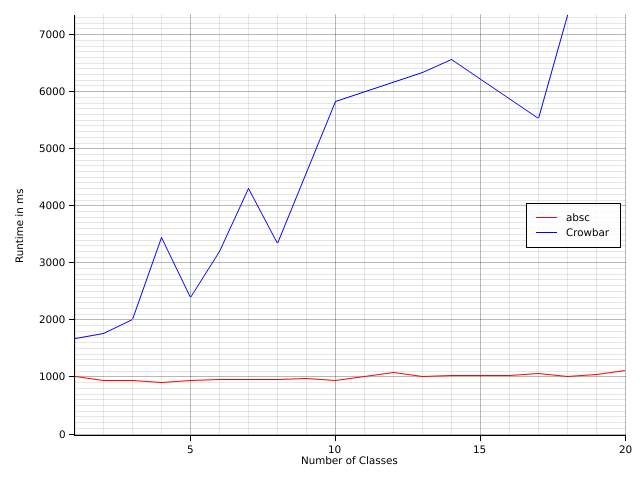
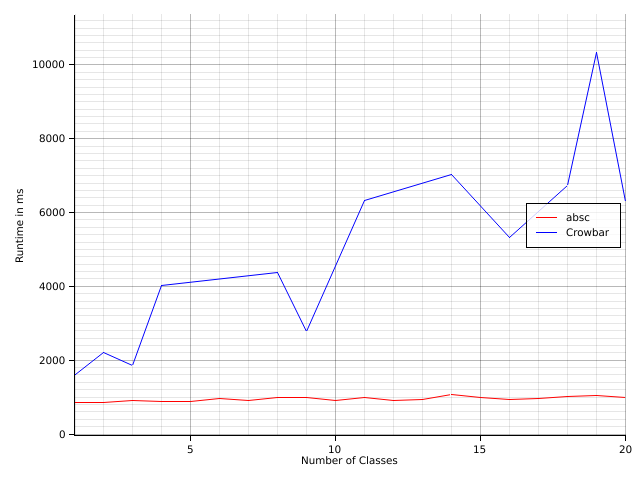
nullable benchmark

Changed region(s): [[0.0625, 0.0312, 0.9688, 0.9062]]

diff --git a/crates/benchmark/src/main.rs b/crates/benchmark/src/main.rs
@@ -13,6 +13,7 @@ use std::{
 
 mod plot;
 
+#[derive(Clone)]
 pub struct Run {
     pub duration: Duration,
     pub id: u32,
@@ -37,11 +38,15 @@ impl Run {
 
 pub struct BenchmarkResult {
     pub runs: Vec<Run>,
+    is_sorted: bool,
 }
 
 impl BenchmarkResult {
     fn new() -> Self {
-        Self { runs: Vec::new() }
+        Self {
+            runs: Vec::new(),
+            is_sorted: false,
+        }
     }
 
     fn size(&self) -> usize {
@@ -63,6 +68,7 @@ impl BenchmarkResult {
     }
 
     fn push(&mut self, r: Run) {
+        self.is_sorted = false;
         self.runs.push(r)
     }
 
@@ -70,12 +76,37 @@ impl BenchmarkResult {
         self.runs.iter().map(|r| r.duration).max()
     }
 
+    fn min_time(&self) -> Option<Duration> {
+        self.runs.iter().map(|r| r.duration).min()
+    }
+
     fn max_num(&self) -> Option<u32> {
         self.runs.iter().map(|r| r.id).max()
     }
 
+    fn sort(&mut self) {
+        if !self.is_sorted {
+            self.runs.sort_by(|r1, r2| r1.cmp_num(r2));
+            self.is_sorted = true;
+        }
+    }
+
+    fn take(&mut self, n: usize) -> BenchmarkResult {
+        self.sort();
+        let runs = self
+            .runs
+            .iter()
+            .take(n)
+            .map(|r| r.clone())
+            .collect::<Vec<Run>>();
+        BenchmarkResult {
+            runs,
+            is_sorted: true,
+        }
+    }
+
     fn to_points(&mut self) -> Vec<(u32, u128)> {
-        self.runs.sort_by(|r1, r2| r1.cmp_num(r2));
+        self.sort();
         self.runs.iter().map(Run::to_point).collect()
     }
 
@@ -157,6 +188,8 @@ fn main() -> io::Result<()> {
         }
     }
 
+    let mut nullable_first_20 = nullable.take(20);
+
     println!("\n=== Crowbar results ===");
     println!(
         "Number of runs: {}\nAverage time: {}\nMedian time: {}",
@@ -165,7 +198,15 @@ fn main() -> io::Result<()> {
         crowbar.median()
     );
 
-    println!("\n=== Nullable results ===");
+    println!("\n=== Nullable results for the first 20 ===");
+    println!(
+        "Number of runs: {}\nAverage time: {}\nMedian time: {}",
+        nullable_first_20.size(),
+        nullable_first_20.avg(),
+        nullable_first_20.median()
+    );
+
+    println!("\n=== Nullable results for all 100 ===");
     println!(
         "Number of runs: {}\nAverage time: {}\nMedian time: {}",
         nullable.size(),
@@ -173,7 +214,7 @@ fn main() -> io::Result<()> {
         nullable.median()
     );
 
-    plot::plot(&mut nullable, &mut crowbar).unwrap();
+    plot::plot(&mut nullable_first_20, &mut crowbar).unwrap();
     plot::plot_nullable(&mut nullable).unwrap();
 
     Ok(())

diff --git a/crates/benchmark/src/plot.rs b/crates/benchmark/src/plot.rs
@@ -20,7 +20,9 @@ pub fn plot(
     let root = BitMapBackend::new("absc_crowbar.png", (640, 480)).into_drawing_area();
     root.fill(&WHITE)?;
 
-    let max_y = max(nullable.max_time().unwrap(), crowbar.max_time().unwrap());
+    let mut max_y = max(nullable.max_time().unwrap(), crowbar.max_time().unwrap()).as_millis();
+    // Add padding
+    max_y += max_y / 10;
 
     // We limit to 20, as Crowbar fails roughly at that point
     let max_x = max(
@@ -32,7 +34,7 @@ pub fn plot(
         .margin(15)
         .x_label_area_size(30)
         .y_label_area_size(60)
-        .build_cartesian_2d(1..max_x, 0..max_y.as_millis())?;
+        .build_cartesian_2d(1..max_x, 0..max_y)?;
 
     chart
         .configure_mesh()
@@ -63,7 +65,13 @@ pub fn plot_nullable(nullable: &mut BenchmarkResult) -> Result<(), Box<dyn std::
     let root = BitMapBackend::new("absc_only.png", (640, 480)).into_drawing_area();
     root.fill(&WHITE)?;
 
-    let max_y = nullable.max_time().unwrap();
+    let mut max_y = nullable.max_time().unwrap().as_millis();
+    max_y += max_y / 5;
+
+    let mut min_y = nullable.min_time().unwrap().as_millis();
+    min_y -= max_y / 5;
+
+    println!("min_y: {}, max_y:{}", min_y, max_y);
 
     let max_x = nullable.max_num().unwrap();
 
@@ -71,7 +79,7 @@ pub fn plot_nullable(nullable: &mut BenchmarkResult) -> Result<(), Box<dyn std::
         .margin(15)
         .x_label_area_size(30)
         .y_label_area_size(60)
-        .build_cartesian_2d(1..max_x, 0..max_y.as_millis())?;
+        .build_cartesian_2d(1..max_x, min_y..max_y)?;
 
     chart
         .configure_mesh()

diff --git a/crates/abs_rand_module/src/main.rs b/crates/abs_rand_module/src/main.rs
@@ -10,7 +10,7 @@ use gen::ty;
 use generator::RandGenerator;
 
 mod chance;
-mod gen;
+pub mod gen;
 mod generator;
 
 #[derive(Debug, Copy, Clone)]
@@ -265,7 +265,7 @@ pub struct Options {
     pub target: Target,
 }
 
-const NUM_RAND_CLASSES: u32 = 100;
+const NUM_RAND_CLASSES: u32 = 300;
 const MAX_DEPTH: u8 = 2;
 const BRANCH_RATE: f64 = 0.1;
 const DECLARE_TO_ASSIGN: f64 = 0.3;
@@ -283,7 +283,7 @@ impl Default for Options {
             else_ratio: ELSE_RATIO,
             avg_meth_body_size: AVG_METH_BODY_SIZE,
             avg_block_size: AVG_BLOCK_SIZE,
-            target: Target::NullableExtension,
+            target: Target::Crowbar,
         }
     }
 }
@@ -294,9 +294,11 @@ fn main() {
     for i in 1..=NUM_RAND_CLASSES {
         let mut opts = Options::default();
         opts.num_rand_classes = i;
-
-        let path = format!("./out/generated-cb-{}.abs", i);
-        write_module(&path, opts).expect("An error occurred while writing the module");
+        if i <= 20 {
+            let path = format!("./out/generated-cb-{}.abs", i);
+            write_module(&path, opts).expect("An error occurred while writing the module");
+        }
+        opts.target = Target::NullableExtension;
         let path = format!("./out/generated-nc-{}.abs", i);
         write_module(&path, opts).expect("An error occurred while writing the module");
     }
